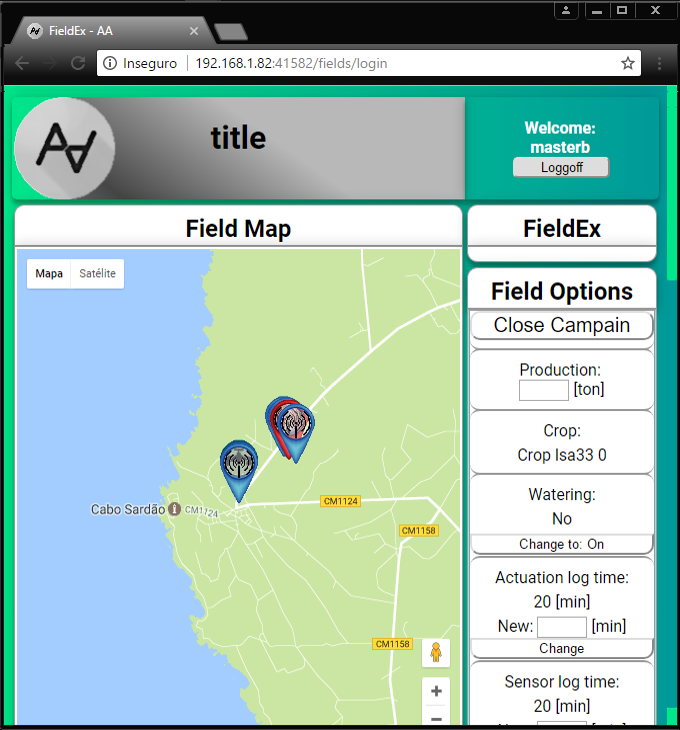
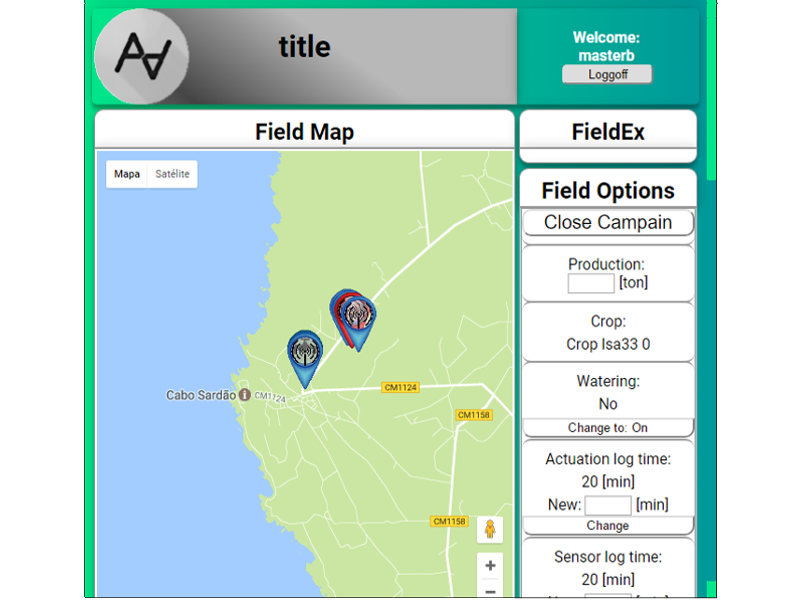
changed images from mcrsra to be 800x600 and deleted mcrsra_7

diff --git a/en/projects/remote_monitoring_and_control_of_agricultural_irrigation_systems.html b/en/projects/remote_monitoring_and_control_of_agricultural_irrigation_systems.html
@@ -165,7 +165,6 @@
 												<li><img src="../../images/projects/mcrsra_4.png" alt="" /></li>
 												<li><img src="../../images/projects/mcrsra_5.png" alt="" /></li>
 												<li><img src="../../images/projects/mcrsra_6.png" alt="" /></li>
-												<li><img src="../../images/projects/mcrsra_7.png" alt="" /></li>
 											</ul>
 										</div>
 										<!-- //PORTFOLIO SLIDER -->

diff --git a/projects/Monitorização_e_controlo_remoto_de_sistemas_de_rega_agricola.html b/projects/Monitorização_e_controlo_remoto_de_sistemas_de_rega_agricola.html
@@ -162,7 +162,6 @@
 											<li><img src="../images/projects/mcrsra_4.png" alt="" /></li>
 											<li><img src="../images/projects/mcrsra_5.png" alt="" /></li>
 											<li><img src="../images/projects/mcrsra_6.png" alt="" /></li>
-											<li><img src="../images/projects/mcrsra_7.png" alt="" /></li>
 										</ul>
 									</div>
 									<!-- //PORTFOLIO SLIDER -->
